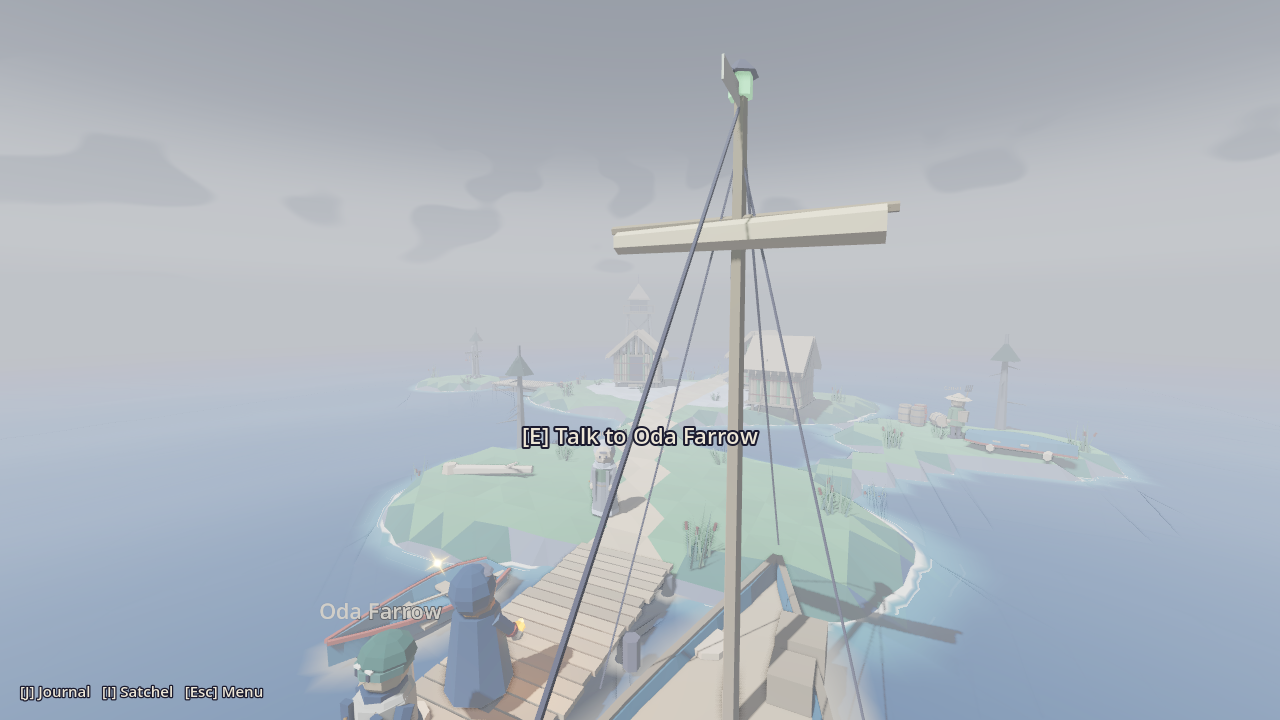
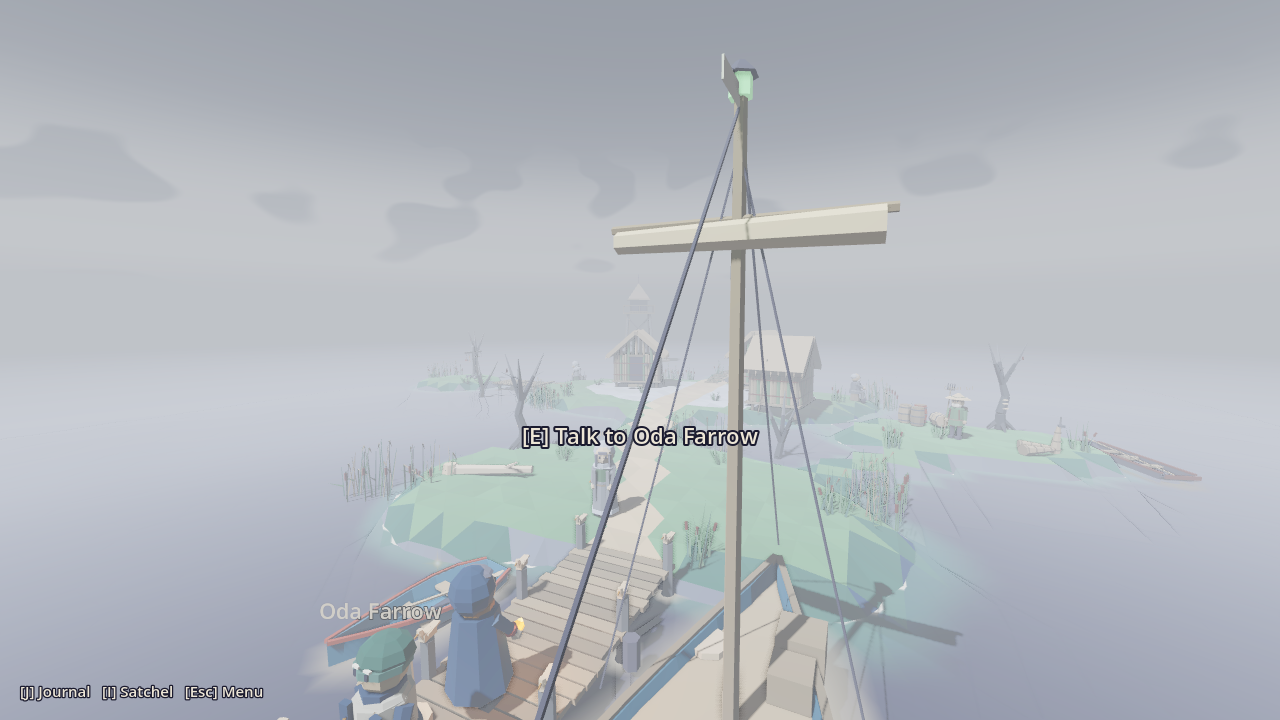
docs: devlog day 30, roadmap, tech notes, lore (the Unmoored by the pools, boards on the long walk, the punt), screenshots and checkpoint for the fen, dressed
Claude-Session: https://claude.ai/code/session_01JXq7TLHUmKrNXgQwAoemdg

diff --git a/docs/ROADMAP.md b/docs/ROADMAP.md
@@ -230,6 +230,12 @@ with a meaningful burn choice → consequences visible in the village.
       Hesper, the long walk "with a lantern that wasn't lit — it's for after"; side quest **The Letting Post**:
       tie on Mara's word, your own, or leave nothing (`fen_dunstan_word`). The `gull` burn makes his name slide
       off the Wakebearer. Checkpoint `glasswater_fen`; the smoke walk sails the lane twice.
+- [x] [A] **The fen, dressed** (Day 30): the **staithe** (a whittled gull on every post, all facing out to sea),
+      a low **boardwalk** for the west walk (no ladder/bollards; a plank gone), **boards laid along the long walk**
+      into the fog, Corran's moored **punt** and **eel-traps**, dead **alders** (not pines), **reed beds** along the
+      pools, **the Unmoored sitting by the pools** (`unmoored_shawl`, `unmoored_coat`; engine: **figure props** — a
+      prop with an `idle` — and the new **`still`** idle), **mirror-still water** (region `water`: swell/wash/foam/
+      mirror + colours), the Heron's skiff pale and readable, Hesper's locks and shawl, Corran's woven creel.
 
 ### Art track (owner request, 2026-09-26)
 The owner wants the look upgraded: characters and settings read as generic greybox.
@@ -240,49 +246,45 @@ palette colors, strong silhouettes); every asset from a re-runnable `tools/blend
 each .glb < 5 MB.
 
 ### Next up
-1. [A] **The fen, dressed** (art due Day 30): a low plank **boardwalk** for the west walk and the long walk
-   (no ladder, no bollards), **whittled gulls on the staithe posts**, eel traps and a moored punt at Corran's
-   landing, alder snags (not pines), reed beds along the pools, Unmoored **sitting by the pools** (a
-   Hushed-ish idle, no dialogue) on Stillhithe, the Heron Light's skiff readable at distance, a mirror-still
-   water look for the pools (less swell). Hesper's shawl/hair read; Corran's creel.
-2. [P] **Polish/debt pass three** (due by Day 31; last pass Day 23): candidates — the fen's arrival plays
+1. [P] **Polish/debt pass three** (due Day 31 — next run; last pass Day 23): candidates — the fen's arrival plays
    while the player still stands on the ferry plank (fine) but Hesper's first talk can be skipped by walking
    past (then Corran's "hiding it for her" never shows: fine); `fen_ember` has no effect beyond words yet
    (consider: Unmoored turn their faces away from a bare ember — a `faces_player` override by flag); the
    smoke walk's Thornwold Oda is never visited by the passes (see Known issues); colour pass on the fen's
-   flat white light (the pale shore band, the silverfog paint on Stillhithe); the dock model is re-used for the west walk (wants a low boardwalk with no ladder — art).
-3. [C] **The Heron Light, part one** (next content, due by Day 33): Corran decides he likes you (what tips
+   flat white light (the pale shore band, the silverfog paint on Stillhithe, the mirror water reading very pale
+   from above); the Unmoored figures could turn their faces from a bare ember (a figure `if`/pose by flag).
+2. [C] **The Heron Light, part one** (next content, due by Day 33): Corran decides he likes you (what tips
    it? the ember shown, not cupped? an eel-trap errand?) and poles you out through the channels to the
    Heron Light's legs in the Deeps (a punt `travel`, own region or the mere's edge); the keeper's skiff; what
    happened to her (keep it open-ish); Unmoored further in; Dunstan glimpsed, not met. Keep the four
    colliers and the Lamp's coal open.
-4. [S] **Title screen**: New game / Continue (latest slot) / Load / Settings / Quit; then
+3. [S] **Title screen**: New game / Continue (latest slot) / Load / Settings / Quit; then
    "Return to title" on the Act I end card and in the pause menu. Reuse the pause menu's
    Settings/Controls pages (move the page builders into a shared `SettingsPages` control).
-5. [P] **Color grading pass on a Vulkan machine** — sandbox screenshots (Compatibility
+4. [P] **Color grading pass on a Vulkan machine** — sandbox screenshots (Compatibility
    renderer) are washed out; verify palette reads correctly in Forward+ (incl. beacon glow,
    the Day 12 glow/contrast/saturation grading, SSAO strength, the water colours).
    Needs the owner to run the game locally and report back.
-6. [S] **Settings follow-ups**: gamepad rebinding and stick deadzone; a fullscreen/window
+5. [S] **Settings follow-ups**: gamepad rebinding and stick deadzone; a fullscreen/window
    and vsync toggle; a subtitle/dialogue-speed option with the accessibility item; prompts
    that show pad glyphs when a pad was used last.
-7. [S] **The Greying v2** (fold pieces into later sessions): fog pockets/banks on
+6. [S] **The Greying v2** (fold pieces into later sessions): fog pockets/banks on
    Saltmarrow and Shingle Point too (offshore, leaning back after the burn); the ember light
    pushing fog back in a small radius around the player; paths that fade in thick fog
    (LORE: "a road forgets where it goes" — now Thornwold's theme, see item 3); a Hushed NPC
    drifting in a pocket; audio cue (muffling low-pass + heartbeat-ish ember crackle) with the
    audio item; colourblind-safe meter check with the accessibility item. Consider a story flag
    when the player is first turned back (an NPC remarks on it).
-8. [S] Audio hooks (buses exist since Day 19 — play through them by name), footsteps, ambient loop per region, dialogue "voice blips"
+7. [S] Audio hooks (buses exist since Day 19 — play through them by name), footsteps, ambient loop per region, dialogue "voice blips"
     per NPC (data field). Placeholder sounds generated procedurally.
-9. [A] Saltmarrow dressing follow-ups: paint contrast in the Compatibility renderer (walkway
+8. [A] Saltmarrow dressing follow-ups: paint contrast in the Compatibility renderer (walkway
    vs. slate); Saltmarrow's two greyed net-lofts by the boardwalk gate could take the broken
    variant (or a half-mended one after the burn); Aldous still stands — a bench by the Wrens'
    steps (LORE says he sits on one) wants a seated idle like Hesk's; a lit-window variant for
    nights once day/night exists. (Hob's raking idle landed Day 22 — the seated idle is the
    same kind of CharacterRig style.) Day 28: `log_bench` + the `sit` idle + placement poses exist —
    Aldous seated needs only an `aldous_seated` model (a seated Body) and a bench placement.
-10. [S] Interaction polish: camera framing during dialogue; fade the
+9. [S] Interaction polish: camera framing during dialogue; fade the
    player model when the camera is pushed in close behind them (a wall at their back).
    (Facing while talking landed Day 14; the key hint hides in dialogue since Day 15.)
 
@@ -322,7 +324,7 @@ each .glb < 5 MB.
 - The smoke test's menu walk always burns whichever Remnant is listed first (Act I: currently the
   knot; Thornwold: Hob's boots — it meets Hob before Bram); the other burn paths are covered by
   `test_burning.gd` / `test_thornwold_burning.gd` unit tests only.
-- Next polish/debt pass due by session 31 (Day 23 was the last) — Day 31 (art Day 30 first).
+- Next polish/debt pass due Day 31 (Day 23 was the last) — the next run.
 - The Greying's fog layers barely read from far overviews under the pre-burn global fog
   (0.045) in the Compatibility renderer; up close they read fine. The Day 12 cold light helps
   Gull's Head read as drained; re-judge the density with the Vulkan colour check.
@@ -334,9 +336,7 @@ each .glb < 5 MB.
 - Settings save per change since Day 23, but a slider mid-drag when the OS closes the
   window loses that drag (saved on `drag_ended`). Harmless.
 - Last content session: Day 29 (the fen lane); next content due by Day 33 (the Heron Light, part one).
-- Last art session: Day 28 (the Ridge Light, lit); Day 29 built the fen's first kit (reed house, letting
-  post, Heron Light, Hesper, Corran) inside the content session. Next art due Day 30 — *The fen, dressed*
-  (*Next up* #1); Aldous seated is still cheap (#9).
+- Last art session: Day 30 (the fen, dressed). Next art due Day 32; Aldous seated is still cheap (#8).
 - Hob's camp bench is in the tally house's shadow under the landing's sun (west); he reads dark from
   the yard in Compatibility. Judge with the Vulkan colour pass; a fill light is not in the budget.
 - Prop `smoke` is CPU particles (pauses with the tree under the menu): fine at a few vents;
@@ -358,8 +358,9 @@ each .glb < 5 MB.
   (or teach the walk to prefer an unwalked travel target) rather than adding passes.
 - `fen_ember` (cupped/bare) changes lines only (Hesper, Corran). The Unmoored turning their faces from a bare
   ember is described in text, not shown.
-- The fen's west walk re-uses the Saltmarrow `dock` model (ladder, bollards) turned 90°; replace with a low
-  boardwalk in the fen art pass.
+- Day 30: the fen's mirror water (region `water`, mirror 0.6) reads very pale from above in Compatibility —
+  fog plus sheen; re-judge with the Vulkan colour pass. Figure props (the Unmoored) have a box collider each
+  and no conditions yet (an `if` works like any prop's).
 - Smoke test walks 9 passes since Day 23, each over the regions reachable on foot from where
   it stands (travellers — Oda, the bramble wall — last). A `travel` mid-walk ends that region's
   walk (nodes are freed). Oda is always talked to last and the walk never sails back to

diff --git a/docs/TECH.md b/docs/TECH.md
@@ -33,12 +33,12 @@ xvfb-run -a $GODOT --rendering-driver opengl3 --path . -- --region=gulls_head --
     --at=0,-9,0 --settle=60 --screenshot=/abs/out.png      # player at x,z (camera yaw), wait N frames
 $GODOT --headless --path . -s res://tools/debug/terrain_map.gd [-- <region>]  # ASCII walkability map
 .tools/bin/blender-py tools/blender/build_props.py          # rebuild .glb props (pine, rocks, beacon, net-loft)
-.tools/bin/blender-py tools/blender/build_characters.py [oda hob hob_seated hesper corran …]  # rebuild characters (assets/models/characters/)
+.tools/bin/blender-py tools/blender/build_characters.py [oda hob hob_seated hesper corran unmoored_shawl unmoored_coat …]  # rebuild characters (assets/models/characters/)
 .tools/bin/blender-py tools/blender/build_dressing.py [dock wreck …]  # rebuild the dressing kit (assets/models/dressing/)
 .tools/bin/blender-py tools/blender/build_village.py [house_stilt house_wren net_loft_broken …]  # village buildings (same kit dir)
 .tools/bin/blender-py tools/blender/build_thornwold.py [bramble bunkhouse tally_house log_bench saw_pit charcoal_clamp pine_dark …]  # Thornwold kit (same kit dir)
 .tools/bin/blender-py tools/blender/build_woods.py [collier_hut (+ collier_hut_cold, collier_hut_cold_cap, collier_hut_cold_empty) sack_cart waymark trail_stake greyed_brush pine_grey]  # Thornwold woods kit (same kit dir)
-.tools/bin/blender-py tools/blender/build_fen.py [reed_house letting_post (+ letting_post_word) heron_light]  # Glasswater Fen kit (same kit dir)
+.tools/bin/blender-py tools/blender/build_fen.py [reed_house letting_post (+ letting_post_word) heron_light staithe boardwalk plank_path punt eel_traps alder_snag reed_bed]  # Glasswater Fen kit (same kit dir)
 .tools/bin/blender-py tools/blender/build_ridge.py [thornwold_beacon (+ _lit) keeper_lodge ridge_steps keeper_ladder waymark_cap sack_dropped ridge_outcrops (+ _low) heather_silver waymark_tumbled]  # the ridge and the way up (same kit dir)
 xvfb-run -a $GODOT --rendering-driver opengl3 --path . res://scenes/debug/character_lineup.tscn \
     -- --screenshot=/abs/out.png [--closeup] [--mood=gulls_head] [--only=hob,lamp] [--pose=0.16] [--turn=60]  # art review: every character side by side (+ unplaced models); --pose freezes the idles at t s, --turn turns the models
@@ -235,6 +235,11 @@ Colors are palette names from `PropFactory.PALETTE` (= GAME_DESIGN palette) or `
   a wide, faint glow over the whole quad (the fog lit round a beacon). The lit Ridge Light on the
   woods' skyline uses size 14 / strength 1 / bloom 0.35 (it is ~60 m off); on the ridge a size-6
   halo beside the real light. Every `lantern_post` carries one at `[0, 1.85, 0.58]`.
+- `"idle": "still"` (Day 30) makes the prop a **figure**: its `model` must be a character model
+  (`assets/models/characters/`, the rig contract) and it is built with `CharacterRig.instantiate` in
+  that idle style — set dressing that breathes (the Unmoored by Stillhithe's pools), no name, no
+  dialogue. Give it a `collider` like any prop; no `float`/`wading` (validated). The character
+  lineup lists figures as "(figure)".
 
 ### Arrival events & act ends (Day 13)
 - **Region `events`** happen on arriving in a region: after `main.load_region`, the first
@@ -353,6 +358,11 @@ on top by `follow_greying`.
   from derivatives, swell that grows with depth (so the shoreline stays put), a ragged foam
   band at depth≈0 and a broken wash line moving in. No depth buffer → same in Compatibility.
   Foam follows the *ground* only; piers, pilings and boats get none (yet).
+- **Region `water` (Day 30)** tunes the shader per region, every key optional (`WaterBuilder.SETTINGS`,
+  validated ranges; `note` allowed): `swell` (× wave height, 0..2), `wash` (the broken foam lines,
+  0..1), `foam` (× shore foam width, 0..2), `mirror` (0..1: a glancing look takes the `sheen` colour,
+  glossier), colours `shallow`, `deep`, `sheen` (palette or #hex). No block = the old sea exactly.
+  Glasswater Fen: `{swell 0.15, wash 0, foam 0.5, mirror 0.6, shallow pine, deep ink, sheen silverfog}`.
 
 ### Ground (sculpted terrain)
 **Decision (Day 7):** terrain is generated in Godot from region data, not modelled in
@@ -524,6 +534,16 @@ Keep the lit build ≤ 16 materials (the kit cap): reuse `kindle` glow rather th
 `Body`'s seat; Hob's camp seat, and Aldous's bench later), front at Godot +Z; no collider (the NPC
 sitting on it has one). `build_characters.py hob_seated`: Hob as a seated Body with the rake
 across his knees in the static `Stool` part.
+**The fen, dressed (Day 30):** `build_fen.py` — `staithe` and `boardwalk` follow the dock's
+replacement rule (2 × 6 m along Godot Z, deck top 0.675, placed at y -0.4 → the 0.275 pier deck; like
+the dock they reach below their origin). The staithe's eight posts each carry a whittled gull facing
+-Y (Godot +Z, out to sea); the boardwalk has nothing over its deck and its piles stand at
+`BOARDWALK_PILES` (mirrored in `test_fen_dressed.gd` and the region's `wading` rings). `plank_path`
+(1 × 3 m along Z, ~7 cm, no collider) lies on the ground; `punt` (origin at the bottom, place at the
+water level − 0.15 with `float`), `eel_traps`, `alder_snag` (same trunk footprint as `pine_snag`),
+`reed_bed` (3.2 m along X, no collider; place on the shoreline, ground ≈ water − 0.1). Characters:
+`unmoored_shawl` / `unmoored_coat` are seated Bodies with their seat (tussock / upturned basket) in
+the static `Stool` part — figure props with the `still` idle.
 Note `bp.prism` creates its object through the data API and does **not** make it
 active — use its return value (e.g. to rotate it), never `bpy.context.active_object`.
 
@@ -660,6 +680,12 @@ WorldState.to_dict()}`. Bump `SaveSystem.SAVE_VERSION` on breaking changes and a
   halo + light, halo parameters reach the shader, lantern posts' halos, placement pose overrides,
   Hob seated on the bench (same spot/facing, seat top 0.44 m, by the tally-house step), the `sit`
   doze and start on the real model (legs stay put), validator placement-pose and halo-number checks.
+- `tests/test_fen_dressed.gd` — Day 30: the staithe (deck height, gulls on the posts), the boardwalk
+  (nothing over the deck, pier width, a foam ring per pile, walkable), boards along the long walk into
+  the fog, Corran's punt afloat and the traps on dry ground, alders and reed beds at the water's edge,
+  the Unmoored figures (dry, reachable, facing the water, off the paths, a `still` rig), the `still`
+  idle on the real model, region `water` reaching the shader (the sea elsewhere unchanged), the pale
+  skiff, validator figure/water checks.
 - `tests/test_characters.gd` — character models follow the rig contract; the rig poses and
   returns to rest; missing models fall back; validator catches bad `model`/`idle`.
 - `tests/test_dialogue.gd`, `tests/test_world_state.gd`, `tests/test_journal_model.gd` — unit

diff --git a/docs/DEVLOG.md b/docs/DEVLOG.md
@@ -2,6 +2,77 @@
 
 Newest entries first. Each entry: what was done, decisions & why, problems, next steps.
 
+## 2026-10-08 21:00 UTC — Day 30: The fen, dressed (art track)
+
+**Did**
+- Tooling: `tools/setup.sh` worked first try (Godot 4.7.2 + bpy 5.2.2). Detached HEAD again; checked out
+  `main` and fast-forwarded to `origin/main` (`c5b365b`, Day 29's head).
+- **Art (due today; last art Day 28):** ROADMAP *Next up* #1, *The fen, dressed*, all parts:
+  - **The staithe** (`staithe`, new Blender model on the dock's footprint and deck top): silvered planks,
+    every piling rising through the deck as a post with **a whittled gull on it, all facing out to sea**
+    (LORE), a slimed ladder at the channel end, no bollard. The fen no longer borrows the Saltmarrow dock.
+  - **The west walk** is a low fen **`boardwalk`** (2 × 6 m, same deck top): crosswise split planks on two
+    runners, stubby pile pairs (foam rings on each), one plank gone and one sprung — no ladder, bollards
+    or rail.
+  - **The long walk** has boards laid on it going in (`plank_path`, four 3 m runs, no collider, mossed and
+    askew), fading into the Deeps' fog.
+  - **Corran's landing:** a moored, floating **`punt`** (flat-bottomed, raked ends, tarred, a quant pole
+    and a trap lying in her) replaces the upturned Saltmarrow rowboat; **`eel_traps`** (two wicker traps in
+    the grass, one stood on end against a stake).
+  - **Dead alders** (`alder_snag`: crooked dark trunk on a root boss, three limbs silvering at the tips,
+    bracket fungus) replace the three pine snags, plus three more standing in the pools.
+  - **Reed beds** (`reed_bed`, 3 m of reed with buff plumes and bulrushes) along seven pool edges, each
+    placed on the shoreline (the fen's banks drop steeply — the first guesses stood in a metre of water).
+  - **The Unmoored sit by the pools:** two new seated characters, **`unmoored_shawl`** (a woman on a reed
+    tussock, hands in her lap) and **`unmoored_coat`** (a man on an upturned eel basket, a cup in his
+    hands), three placements on Stillhithe's edges facing the water. Engine: **figure props** — a region
+    prop with an `idle` is a character model with a `CharacterRig` (no dialogue; validated: a character
+    model, a known style, no `float`/`wading`). New idle **`still`**: slow shallow breath, quiet hands, the
+    head drifting down to look into the water and, sixteen seconds later, up again — no start, nothing
+    calls them back (unlike Hob's `sit` doze). The character lineup lists figures as "(figure)".
+  - **Mirror-still water:** a region **`water`** block (`swell`, `wash`, `foam`, `mirror`, `shallow`/`deep`/
+    `sheen` colours; validated ranges) tunes the water shader; new `wash_strength` and `mirror` uniforms
+    (a fresnel-ish blend toward the sky colour, glossier). The fen: swell 0.15, no wash, half foam, mirror
+    0.6, pine shallows over ink depths — the pools now lie flat and silver instead of a choppy blue sea.
+  - **The Heron's skiff reads:** pale boards, a bone gunwale and an oar across it, sitting higher — a pale
+    shape at the legs' feet from the long walk.
+  - **Hesper:** two dark locks fallen out of the shawl, its point down her back, a fringe at the shoulders.
+    **Corran:** a bigger woven creel (hoops, a lid, an eel's tail over the rim, two shoulder straps).
+- **Tests:** `test_fen_dressed.gd` (9): the staithe's deck height and gulls, the boardwalk (nothing over the
+  deck, pier width, a foam ring per pile, walkable to the letting post), the boards on the long walk going
+  into the fog, Corran's punt afloat in deep enough water and the traps on dry ground, alders/reed beds at
+  the water's edge, the Unmoored (dry ground, reachable, facing the water, off the trodden way, out of
+  everyone's way, built with a `still` rig), the `still` idle on the real model (head down, legs put), the
+  water settings reaching the shader (and the sea elsewhere unchanged), the pale skiff, validator checks.
+  `test_dressing` exempts the staithe/boardwalk from "stands on its origin" like the dock. 217 tests +
+  smoke + launch pass. Checkpoint `glasswater_fen` re-shot.
+
+Screenshots (`docs/screenshots/2026-10-08-pm-fen-*.png`): `staithe` vs `staithe-before`, `westwalk` vs
+`westwalk-before` (the boardwalk, the mirror pool, the Unmoored by it), `gulls` (on the posts), `unmoored-west`,
+`unmoored-east`, `corran` (punt, traps, alder), `longwalk` (the boards into the fog), `skiff`, `lineup`
+(Hesper, Corran and the two Unmoored in the fen's light).
+
+**Decisions**
+- **Figures are props, not NPCs.** The Unmoored by the pools have nothing to say (Stillhithe's one rule);
+  making them NPCs would put names and "[E] Talk" over them. A prop with an `idle` reuses the rig and the
+  validator and costs nothing at runtime beyond the rig.
+- **`still`, not `sit`.** Hob's doze ends with a start — he's pulled back. The Unmoored aren't: their head
+  goes down to the water and comes up slowly, on its own time.
+- **Water as data, not a second shader.** One water shader with region settings keeps Saltmarrow's sea
+  untouched (defaults = the old look; tested) and lets the Deeps or a future tarn tune their own.
+- **The staithe keeps the dock's deck top and pier rect** (the replacement rule), so nothing walkable moved;
+  the boardwalk stays 2 m wide because piers must lie on the ground grid (the validator said so).
+
+**Problems / notes**
+- The validator rejected a 1.8 m pier rect (piers must sit on the 1 m ground grid); the boardwalk is 2 m.
+- The mirror water reads very pale from above in Compatibility (fog + sheen); the peat-dark shows only
+  looking down steeply. Judge with the Vulkan colour pass (mirror 0.6 may want 0.4 there).
+- The first gull build looked every which way; LORE says they all face out to sea — rebuilt to match.
+
+**Next run should**
+1. **Polish/debt pass three (due Day 31)** — ROADMAP *Next up* #1.
+2. Then *The Heron Light, part one* (content, due by Day 33).
+
 ## 2026-10-08 09:00 UTC — Day 29: The fen lane (content)
 
 **Did**

diff --git a/docs/LORE.md b/docs/LORE.md
@@ -489,7 +489,11 @@ forget. The fog is thickest and strangest here.
     as poured glass. A **west walk** (boardwalk) crosses a pool to the letting post's islet; Corran's
     eel landing is east; the **long walk** runs north into **the Deeps** — the mere, deep Greying,
     where the Unmoored go "when they've almost finished forgetting", because "it's quicker". Nobody
-    follows them with a light. The fen's trees are alders that die standing.
+    follows them with a light. The fen's trees are alders that die standing. (Day 30) Some of the
+    Unmoored **sit by the pools all day looking into the water** — a woman on a reed tussock, a man on
+    an upturned eel basket with a cup gone cold — and nobody speaks to them (the one rule). **Boards lie
+    on the long walk going in**, laid by someone who went in; nobody mends them. Corran keeps his
+    **punt** moored off the landing and his **wicker eel-traps** drying on a stake.
   - **The Heron Light**, Glasswater's beacon: Keepers built it **out in the mere on four tall timber
     legs** (the fen has no stone and no ground you'd trust with a tower), X-braced, a plank platform, a
     horn-paned lantern room, steep reed thatch, and **an iron heron** for a vane (gull, pine, heron —

diff --git a/docs/CHECKPOINTS.md b/docs/CHECKPOINTS.md
@@ -1,7 +1,7 @@
 # Emberwake — Story checkpoints
 
 Where the game is up to, one screenshot per story checkpoint. Generated by
-`tools/checkpoints.sh` from `data/scenarios.json` (at commit `3687f43`, 2026-10-08 09:46 UTC).
+`tools/checkpoints.sh` from `data/scenarios.json` (at commit `c5b365b`, 2026-10-08 22:04 UTC).
 
 Play from any of them: `godot --path . -- --scenario=<id>`, or in a debug build open the
 pause menu (Esc) → **Chapter select (dev)**. `--scenario=list` prints them all.
